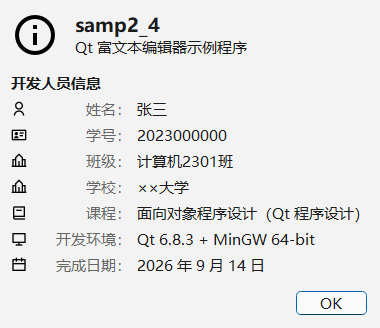
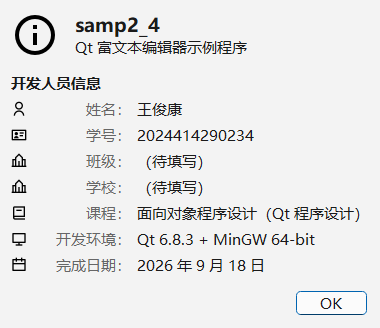
填入个人信息：姓名 王俊康、学号 2024414290234，并更新截图
- qwmainwind.cpp：DevInfo 中填入姓名与学号（班级、学校暂为“待填写”占位）
- docs/images：重新生成 About 窗口与主窗口截图

diff --git a/samp2_4/qwmainwind.cpp b/samp2_4/qwmainwind.cpp
@@ -23,10 +23,10 @@
 // 请把“姓名、学号、班级、学校”改成自己的真实信息后再提交。
 //-----------------------------------------------------------------------------
 namespace DevInfo {
-const char *const kName   = "张三";                     // TODO: 改成自己的姓名
-const char *const kId     = "2023000000";               // TODO: 改成自己的学号
-const char *const kClass  = "计算机2301班";              // TODO: 改成自己的班级
-const char *const kSchool = "××大学";                    // TODO: 改成自己的学校
+const char *const kName   = "王俊康";
+const char *const kId     = "2024414290234";
+const char *const kClass  = "（待填写）";               // TODO: 改成自己的班级
+const char *const kSchool = "（待填写）";               // TODO: 改成自己的学校
 const char *const kCourse = "面向对象程序设计（Qt 程序设计）";//课程名称
 }
 
